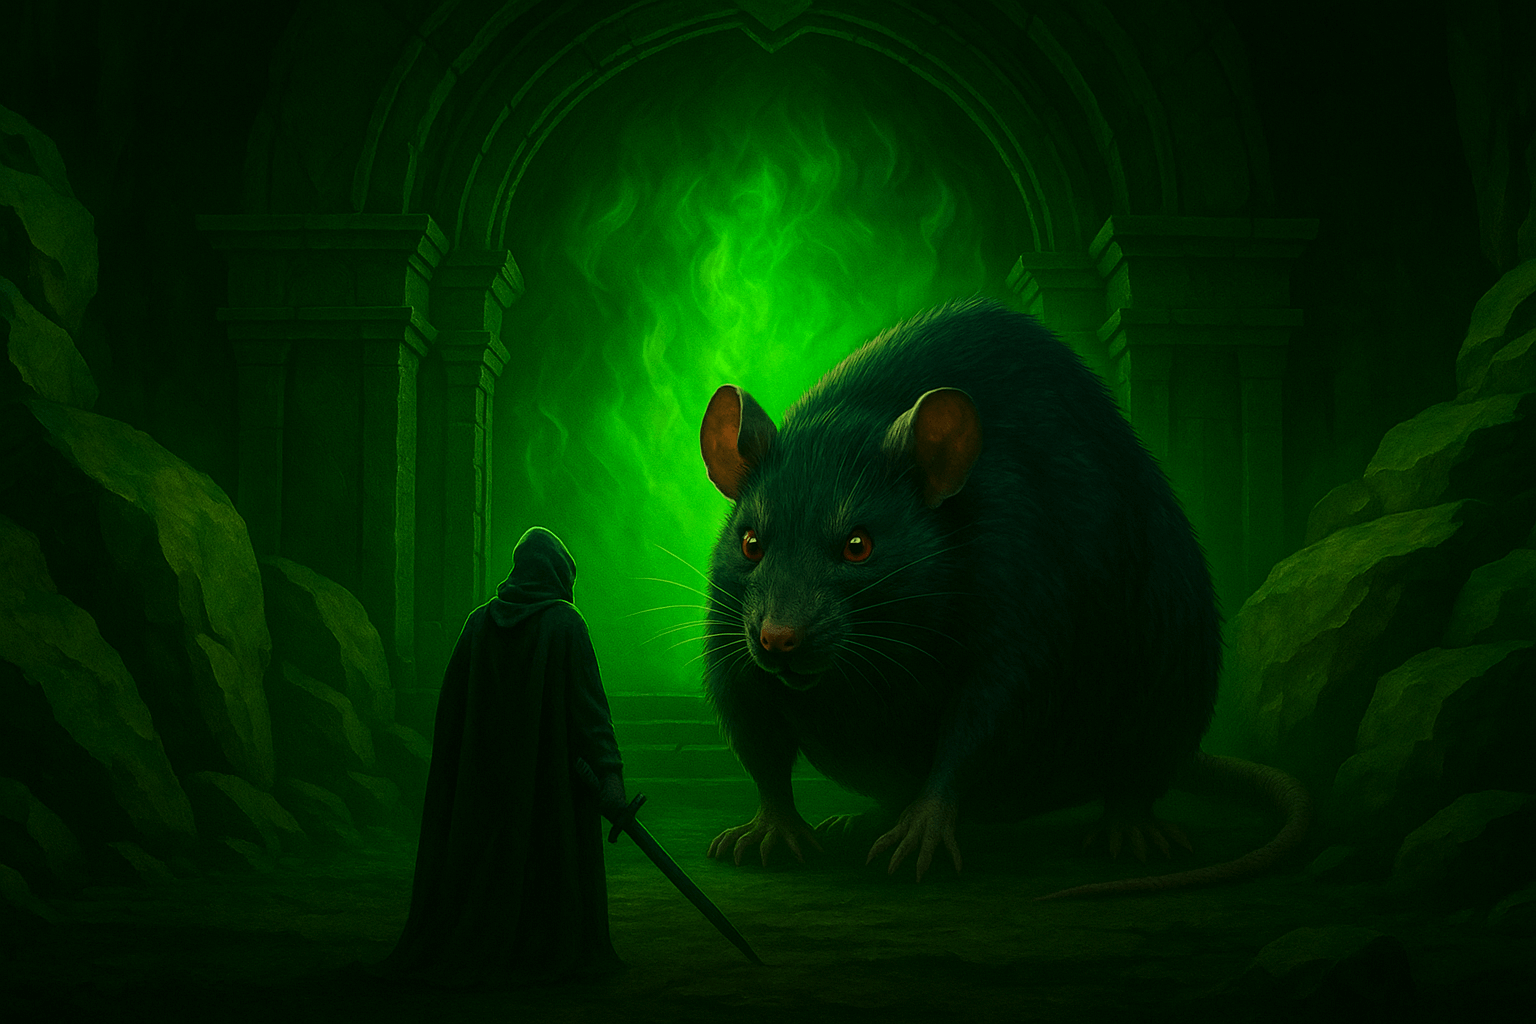
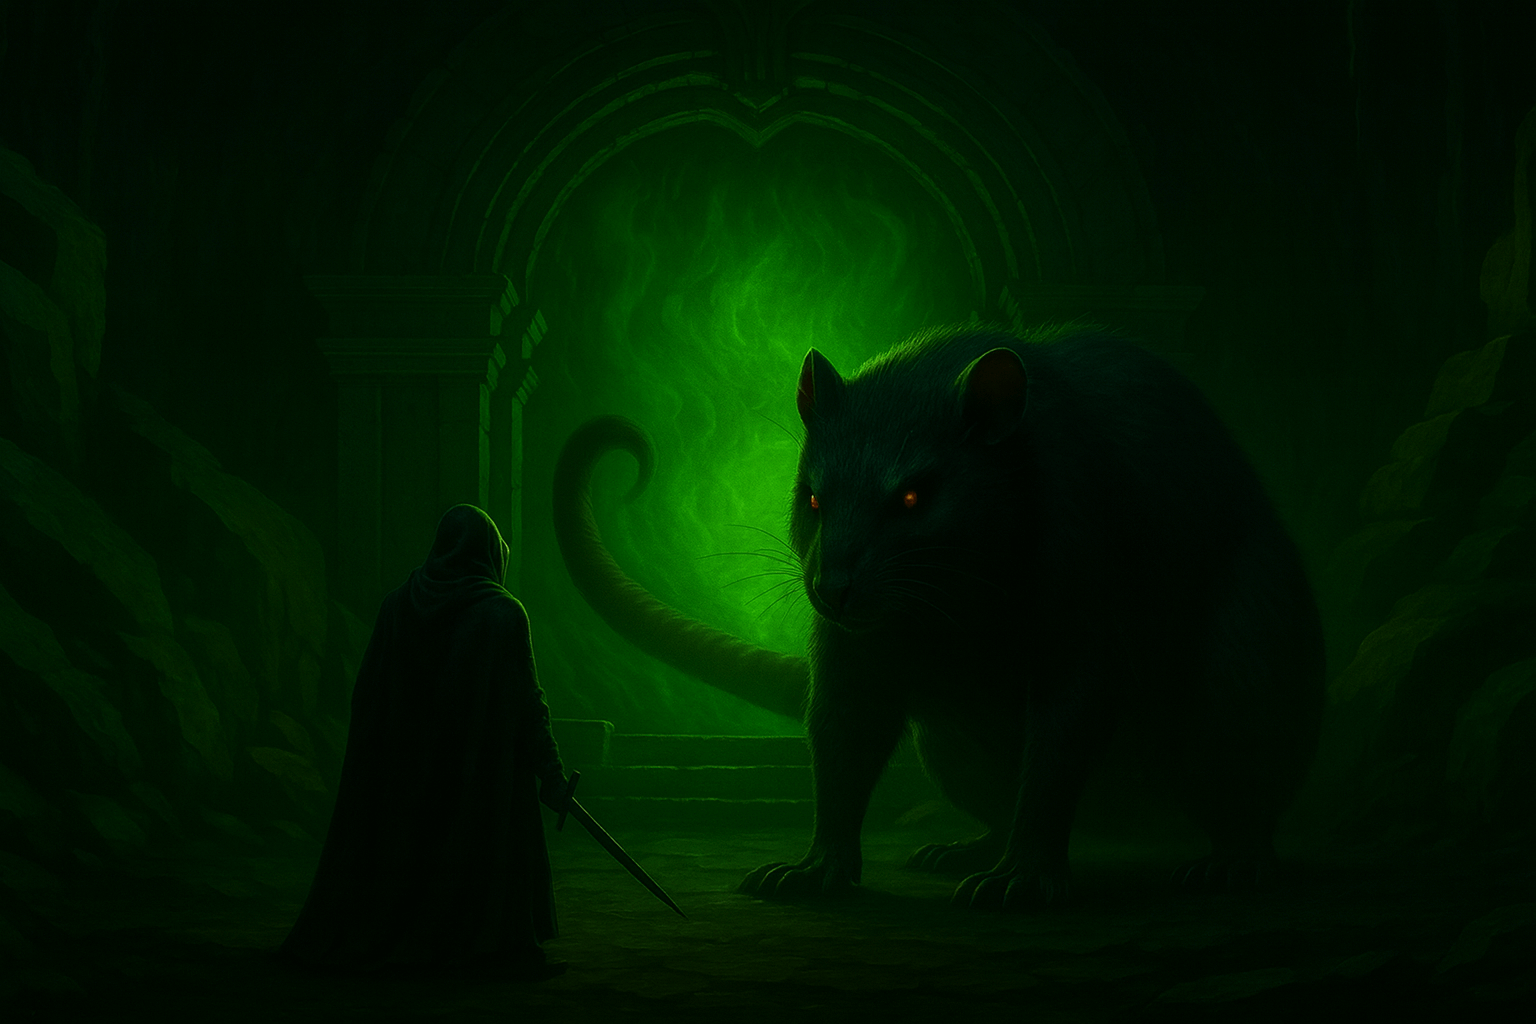
update rat design

diff --git a/client/src/utils/cloudflare.ts b/client/src/utils/cloudflare.ts
@@ -61,7 +61,7 @@ export const streamIds = {
   "Wolf": "abc1f1e75ef4a723f0cb2d383daa0ca1",
   "Mantis": "830ae902a5f5422104233ec9e56837da",
   "Spider": "2ec637d90e35077a90b5339fdcd5831d",
-  "Rat": "007a022840ecce1c98e76b16fd4f098f",
+  "Rat": "561e5882bed34fce54f45d3eeeec1b1a",
   "Kraken": "3a52c37636e8f667ff270f8ec4b342e3",
   "Colossus": "d955e21cc3b91fa36f3172edbe332ce4",
   "Balrog": "e9766c040a203b9a0de99eeabcdc6fb7",
